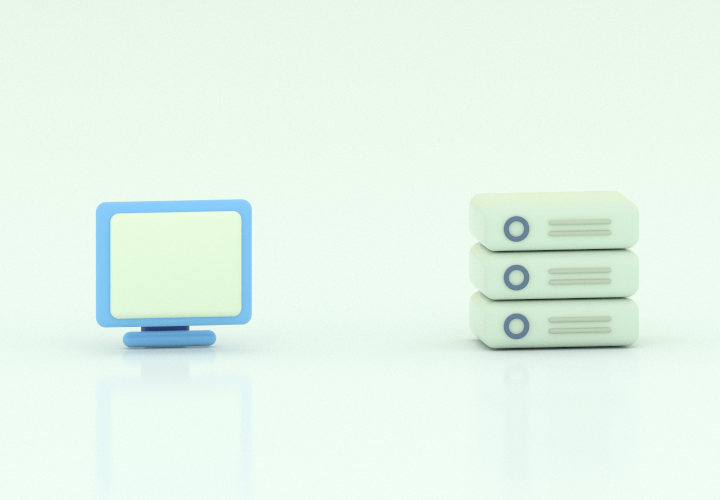
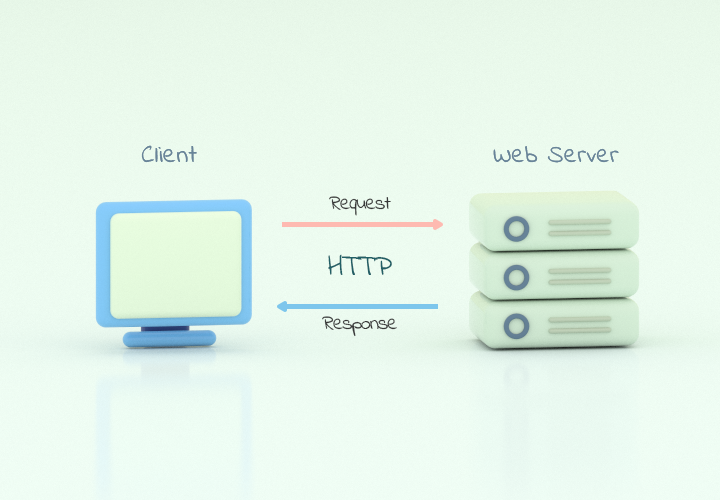
Uploaded Images

diff --git a/HTTP Connection/HTTP Basic/210817_01 HTTP.md b/HTTP Connection/HTTP Basic/210817_01 HTTP.md
@@ -33,10 +33,7 @@
 
 ## 웹 서버
 
-<img src="https://img1.daumcdn.net/thumb/R1280x0/?scode=mtistory2&fname=https%3A%2F%2Fblog.kakaocdn.net%2Fdn%2F2uDtD%2FbtqEepoz93p%2FNdnyQBPeYLS18pxzO32xck%2Fimg.jpg" width=500>
-
 <img src="./images/httpconnection2.png" />
-
 
 *HTTP 클라이언트*와 *HTTP 서버(웹서버)*는 WWW 웹의 기본 요소입니다. 웹 서버는 **HTTP 프로토콜로 의사소통** 하기 때문에 일반적으로 **HTTP 서버**라고 합니다.
 
@@ -154,7 +151,7 @@ HTTP 메세지는 단순한 줄 단위 문자열 입니다.
 TCP/IP 는 **TCP 와 IP 가 층을 이루는, 패킷 교환 네트워크의 프로토콜의 집합**입니다.
 TCP/IP 는 각 네트워크, 하드웨어의 특성을 숨기고, 어떤 종류의 컴퓨터나 네트워크든 **서로 신뢰성 있는 의사소통을 가능**하게 해줍니다.
 
-<img src="https://upload.wikimedia.org/wikipedia/commons/5/5b/InternetProtocolStack.png" width=300>
+<img src="./images/TCP.png">
 
 네트워크의 개념상, HTTP 프로토콜은 TCP 위의 계층입니다. HTTP 는 자신의 메시지 데이터를 전송하기 위해 TCP 를 사용합니다.
 
